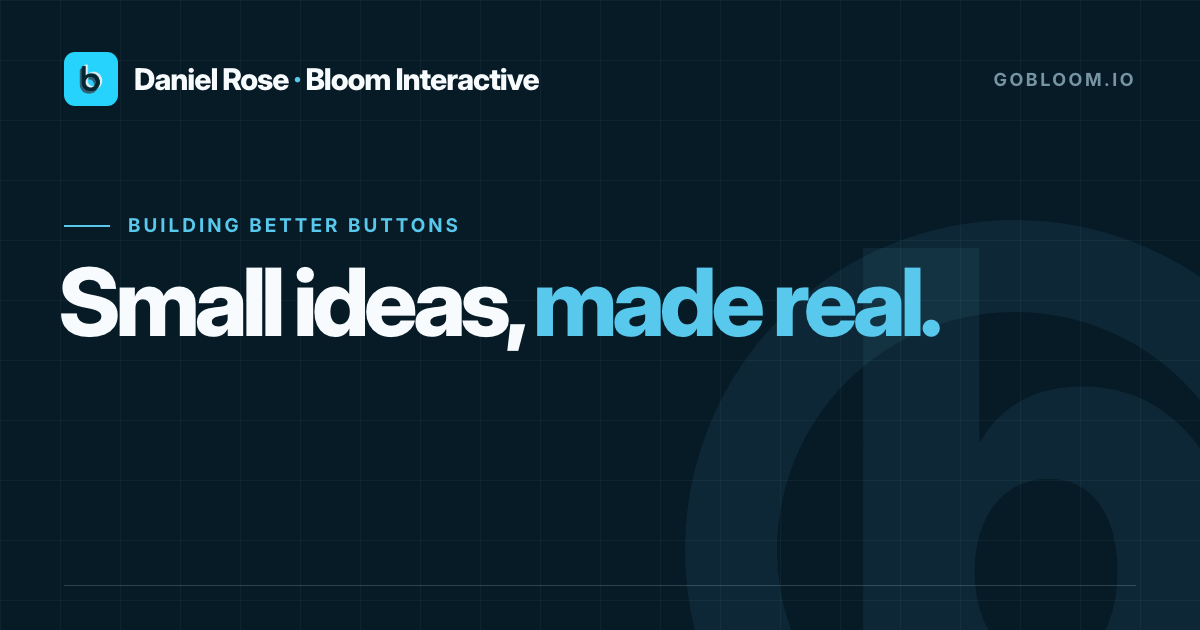
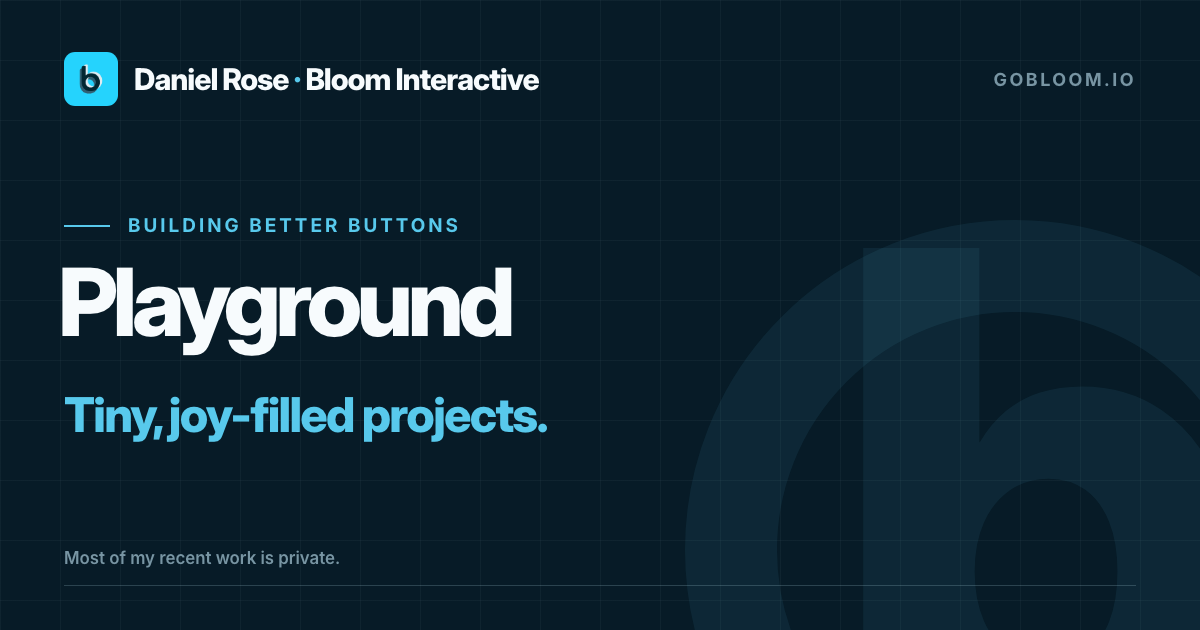
Refine portfolio and playground previews

Changed region(s): [[0.0308, 0.4222, 0.8017, 0.573], [0.0617, 0.6333, 0.4625, 0.6937], [0.0308, 0.8746, 0.2775, 0.9048]]

diff --git a/app/playground/page.js b/app/playground/page.js
@@ -10,12 +10,12 @@ export const metadata = {
   title: "Playground",
   description: "Experiments, interactions, and small ideas made real by Daniel Rose.",
   openGraph: {
-    title: "Small ideas, made real.",
+    title: "Playground — Tiny, joy-filled projects.",
     description: "Experiments, interactions, and small ideas made real by Daniel Rose.",
   },
   twitter: {
     card: "summary_large_image",
-    title: "Small ideas, made real.",
+    title: "Playground — Tiny, joy-filled projects.",
     description: "Experiments, interactions, and small ideas made real by Daniel Rose.",
   },
 };

diff --git a/app/portfolio/page.js b/app/portfolio/page.js
@@ -4,12 +4,12 @@ export const metadata = {
   title: "Portfolio",
   description: "Selected product, design, and engineering work by Daniel Rose.",
   openGraph: {
-    title: "Proof, not promises.",
+    title: "If it’s on the internet, we can build it*",
     description: "Selected product, design, and engineering work by Daniel Rose.",
   },
   twitter: {
     card: "summary_large_image",
-    title: "Proof, not promises.",
+    title: "If it’s on the internet, we can build it*",
     description: "Selected product, design, and engineering work by Daniel Rose.",
   },
 };
